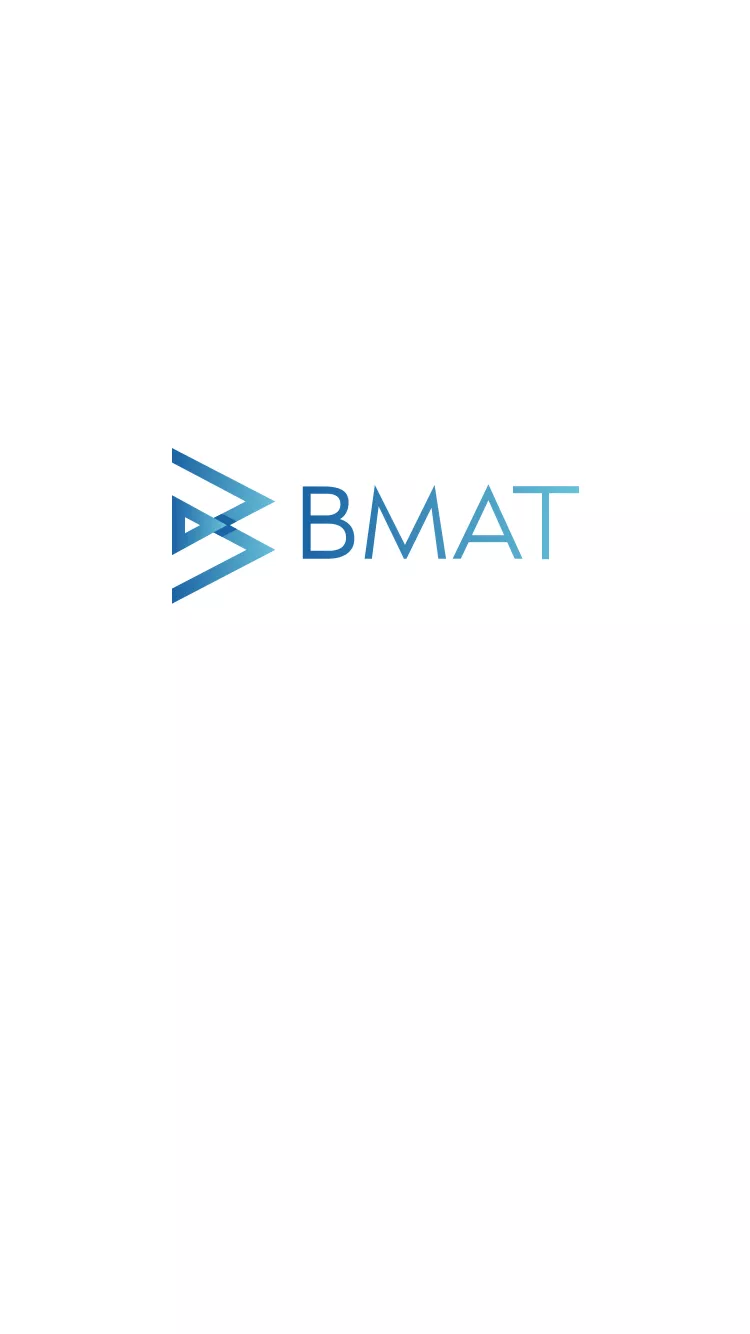
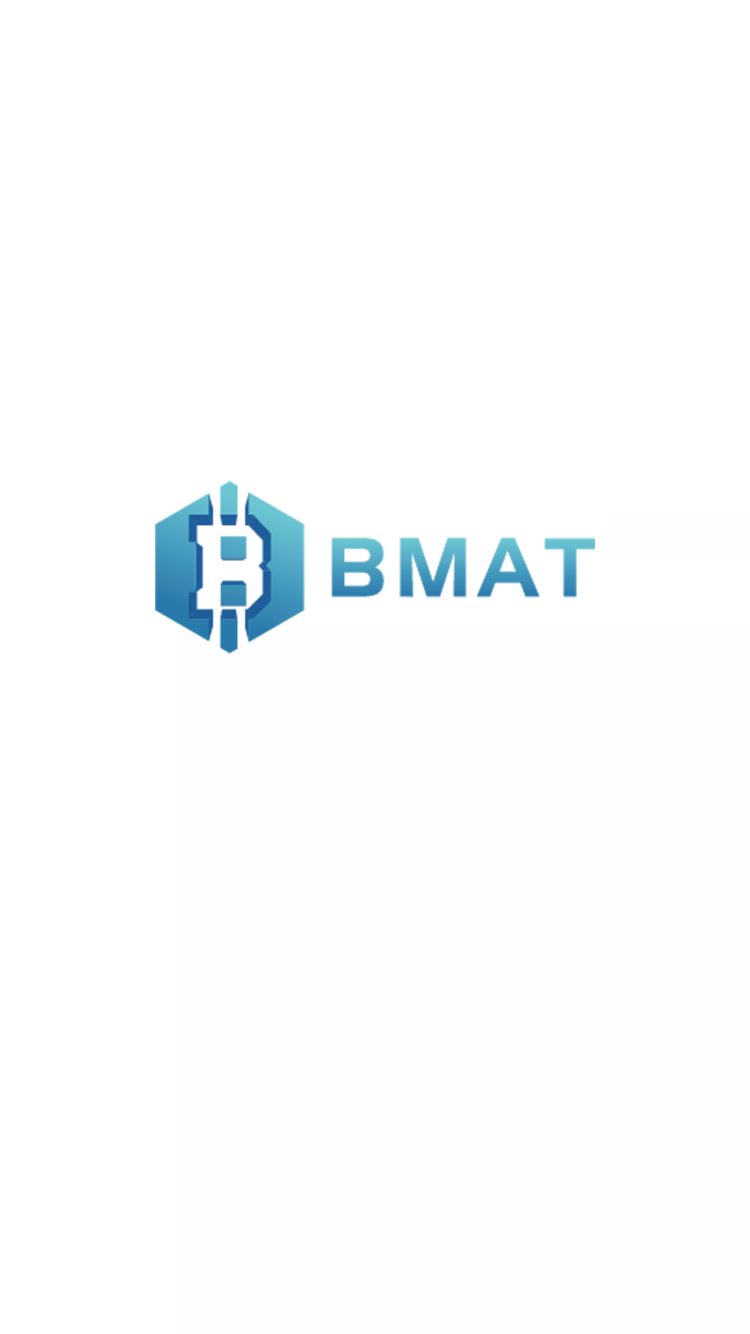
'-'

Changed region(s): [[0.184, 0.3381, 0.7973, 0.4918]]

diff --git a/src/views/dapp/digMine.vue b/src/views/dapp/digMine.vue
@@ -13,7 +13,7 @@
             <!-- 未激活 -->
             <div class="mine-card-unactivated" v-else>
                 <div class="state">{{$t('lang105')}}</div>
-                <div class="statement">{{$t('lang106')}}</div>
+                <div class="statement">{{$t('lang106').replace(/210BMAT/gi, (item.min_chibi || 210) + unitCoin(coin))}}</div>
                 <span class="to-activate" @click="showActivatedModal">{{$t('lang107')}}</span>
             </div>
             <div class="mask"></div>
@@ -38,32 +38,6 @@
 
 
             <div class="x-calc-power calc-power-group">
-                <div class="power-item">
-                    <div class="power-item-name">{{$t('lang122')}}</div>
-                    <div class="power-item-value">{{item.x_power_base || 0}}</div>
-                </div>
-                <div class="divider"></div>
-                <div class="power-item">
-                    <div class="power-item-name">{{$t('lang123')}}</div>
-                    <div class="power-item-value">{{item.coin_age || 0}}</div>
-                </div>
-                <div class="divider"></div>
-                <div class="power-item">
-                    <div class="power-item-name">{{$t('lang124')}}</div>
-                    <div class="power-item-value">{{(item.x_coinage_bonus_power || 0)}}</div>
-                </div>
-                <!--<div class="divider"></div>-->
-                <!--<div class="power-item">-->
-                    <!--<div class="power-item-name">{{$t('lang125')}}</div>-->
-                    <!--<div class="power-item-value">{{(item.y_power_bonus_rate || 0) * 100}} %</div>-->
-
-                <!--</div>-->
-                <!--<div class="divider"></div>-->
-                <!--<div class="power-item">-->
-                    <!--<div class="power-item-name">{{$t('lang126')}}</div>-->
-                    <!--<div class="power-item-value">{{(item.y_power_bonus || 0)}}</div>-->
-                <!--</div>-->
-                <div class="divider"></div>
                 <div class="power-item">
                     <div class="power-item-name">{{$t('lang127')}}</div>
                     <div class="power-item-value">{{(item.x_power || 0)}}</div>

diff --git a/src/views/login/index.vue b/src/views/login/index.vue
@@ -2,7 +2,7 @@
     <div class="container">
         <div class="content">
             <div class="logo">
-                <img src="../../assets/images/home_logo@2x.png" alt="">
+                <img src="../../assets/images/logo.png" alt="">
             </div>
             <div class="login-btn-group">
                 <!-- <r-button
@@ -76,7 +76,7 @@
         align-items: center;
         height: 100%;
         .logo{
-            width: 60%;
+            width: 90%;
             margin: 0 auto;
             padding-bottom: 73.3%;
             img{
